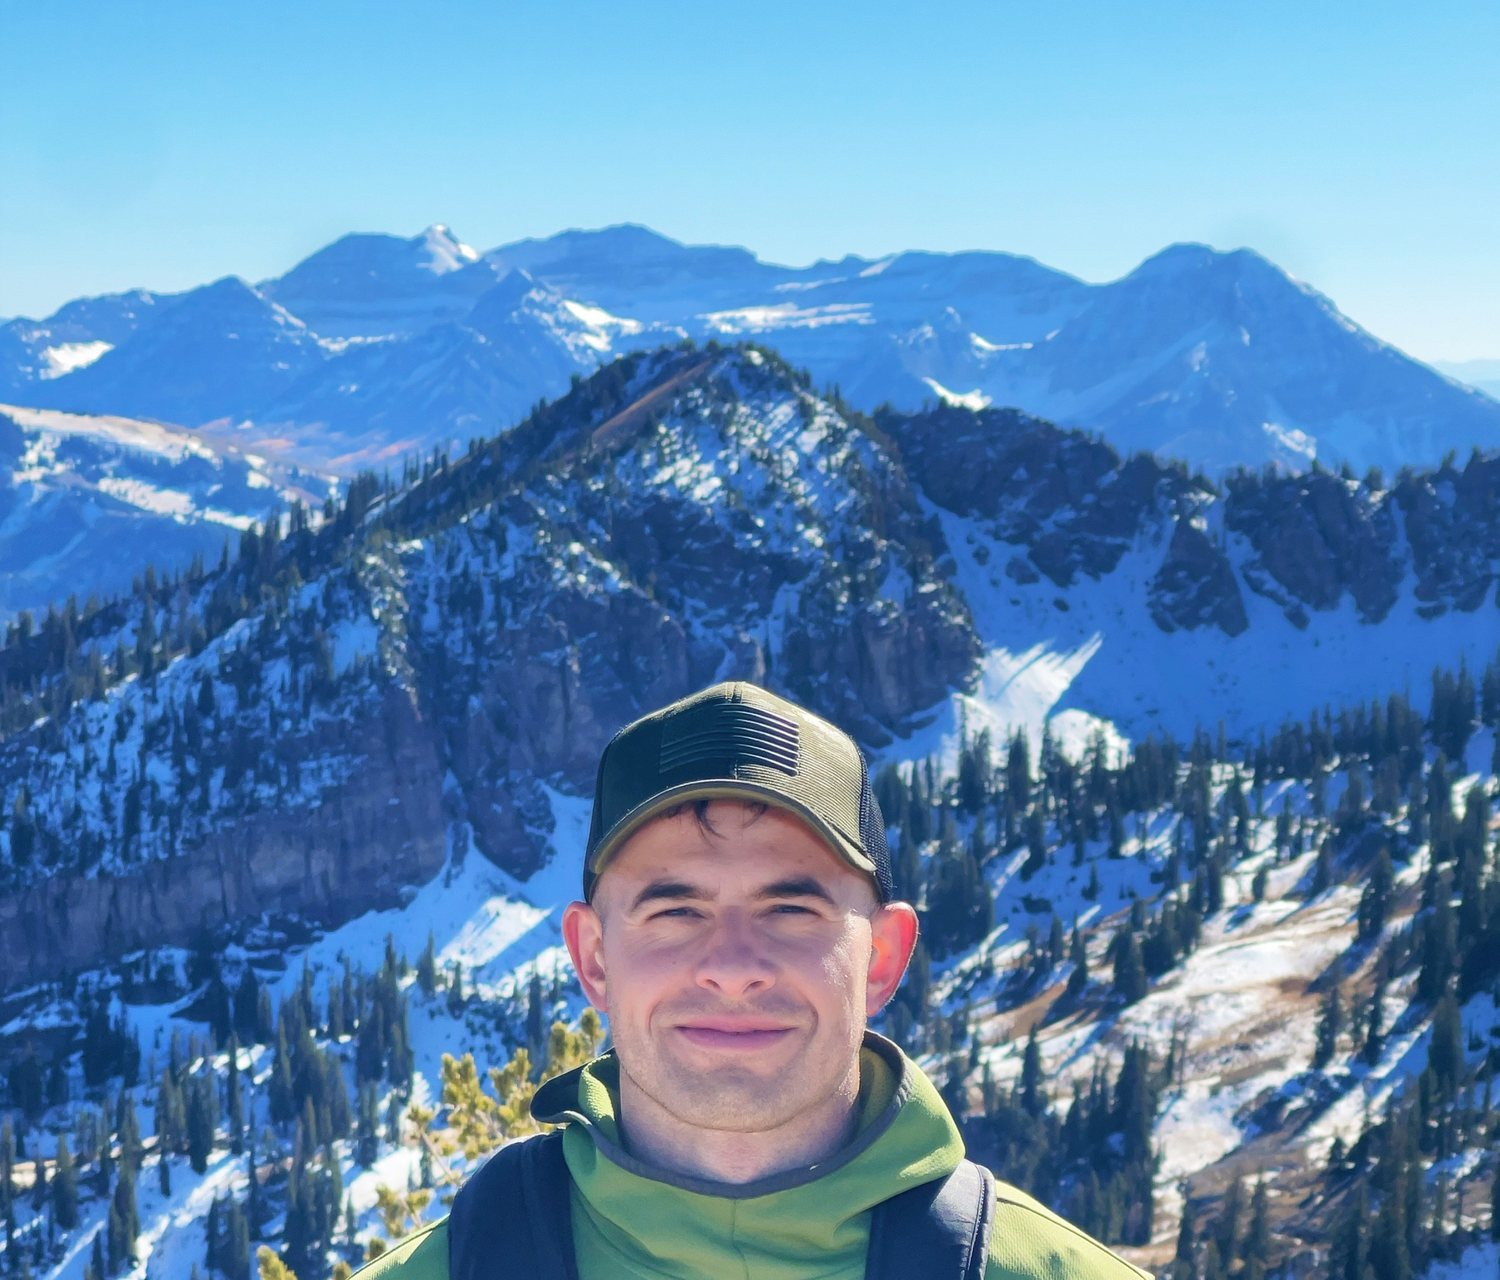
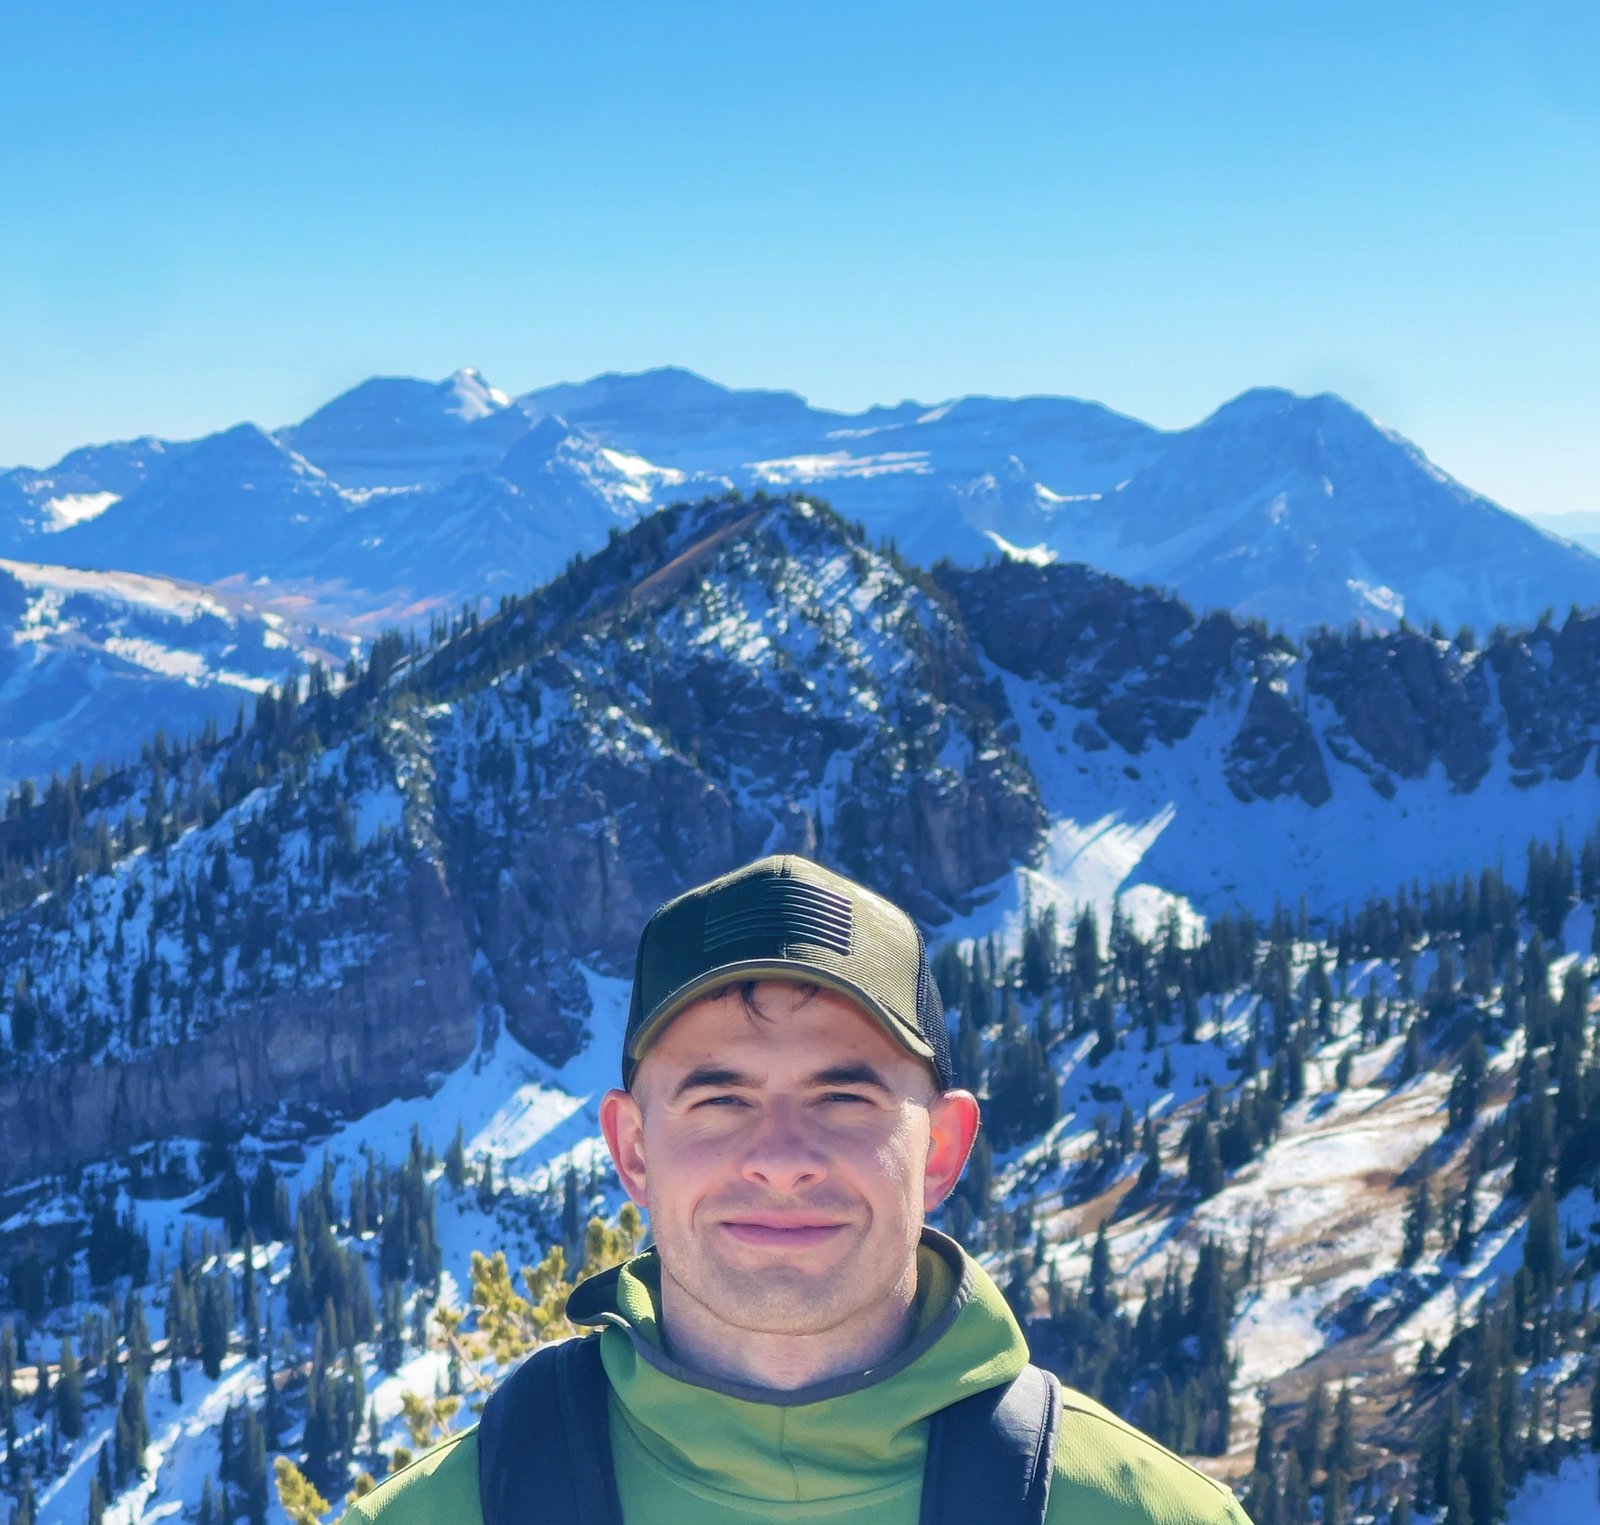
Add files via upload

diff --git a/assets/site.css b/assets/site.css
@@ -214,10 +214,12 @@ hr{border:0;border-top:1px solid var(--rule);margin:0;}
 /* ---------- Credential strip ---------- */
 .strip{border-block:1px solid var(--rule-soft);background:var(--wash);}
 .strip-in{
-  display:flex;flex-wrap:wrap;gap:10px 44px;align-items:baseline;padding-block:18px;
+  display:flex;flex-wrap:wrap;gap:14px 40px;align-items:center;padding-block:20px;
   font-size:.7rem;letter-spacing:.2em;text-transform:uppercase;color:var(--quiet);
 }
 .strip-in b{color:var(--signal);font-weight:500;}
+.strip-logo{height:26px;width:auto;flex:none;opacity:.88;}
+@media(max-width:620px){ .strip-logo{height:22px;} }
 
 /* ---------- Pull quote ---------- */
 .pull{max-width:880px;}
@@ -406,7 +408,7 @@ textarea.inp{resize:vertical;min-height:84px;line-height:1.6;}
 .js .live.off{display:none;}
 
 /* ---------- Closing CTA block ---------- */
-.cta-block{display:grid;grid-template-columns:1.1fr .9fr;gap:clamp(26px,4vw,56px);align-items:center;}
+.cta-block{display:grid;grid-template-columns:1fr 1.08fr;gap:clamp(26px,4vw,56px);align-items:center;}
 .cta-actions{display:flex;flex-wrap:wrap;gap:12px;margin-top:26px;}
 .cta-block figure img{width:100%;height:auto;border-radius:2px;}
 @media(max-width:800px){ .cta-block{grid-template-columns:1fr;} }
@@ -421,7 +423,8 @@ textarea.inp{resize:vertical;min-height:84px;line-height:1.6;}
 .foot-grid{display:grid;grid-template-columns:1.5fr 1fr 1fr;gap:clamp(24px,4vw,48px);padding-bottom:32px;}
 @media(max-width:760px){ .foot-grid{grid-template-columns:1fr 1fr;} }
 @media(max-width:480px){ .foot-grid{grid-template-columns:1fr;} }
-.foot-name{font-family:var(--serif);font-size:1.7rem;color:#fff;margin-bottom:10px;}
+.foot-name{font-family:var(--serif);font-size:1.7rem;color:#fff;margin-bottom:12px;}
+.foot-logo{width:150px;height:auto;display:block;margin:0 0 14px;opacity:.9;}
 .site-foot h3{font-size:.68rem;font-weight:600;letter-spacing:.22em;text-transform:uppercase;
   color:var(--quiet);margin-bottom:15px;}
 .foot-list{list-style:none;margin:0;padding:0;display:grid;gap:10px;}

diff --git a/index.html b/index.html
@@ -300,8 +300,8 @@
 <!-- ============================ CREDENTIAL STRIP ============================ -->
 <div class="strip">
   <div class="wrap strip-in">
-    <span><b>Real Broker, LLC</b></span>
-    <span>The Perry Group</span>
+    <img class="strip-logo" src="images/perry-real-wide.svg" width="1667" height="426"
+         alt="The Perry Group, brokered by Real Broker, LLC">
     <span>Utah license <b>13939777-SA00</b></span>
     <span>Utah County &amp; Salt Lake County</span>
   </div>
@@ -533,7 +533,7 @@
       </div>
     </div>
     <figure style="margin:0">
-      <img src="images/portrait-casual.jpg" width="1500" height="1280" style="border-radius:3px"
+      <img src="images/portrait-casual.jpg" width="1600" height="1525" style="border-radius:3px"
            alt="Emanuel Balmus outdoors in the Wasatch mountains">
     </figure>
   </div>
@@ -547,11 +547,9 @@
     <div class="foot-grid">
       <div>
         <div class="foot-name">Emanuel Balmus</div>
-        <p style="margin:0;line-height:1.8">
-          Real Broker, LLC<br>
-          The Perry Group<br>
-          Utah license 13939777-SA00
-        </p>
+        <img class="foot-logo" src="images/perry-real-stacked.svg" width="794" height="426"
+             alt="The Perry Group, brokered by Real Broker, LLC">
+        <p style="margin:0;line-height:1.8">Utah license 13939777-SA00</p>
       </div>
       <div>
         <h3>Contact</h3>

diff --git a/story.html b/story.html
@@ -175,7 +175,7 @@
       </div>
     </div>
     <figure style="margin:0">
-      <img src="images/portrait-casual.jpg" width="1500" height="1280" style="border-radius:3px"
+      <img src="images/portrait-casual.jpg" width="1600" height="1525" style="border-radius:3px"
            alt="Emanuel Balmus outdoors in the Wasatch mountains">
     </figure>
   </div>
@@ -188,9 +188,9 @@
     <div class="foot-grid">
       <div>
         <div class="foot-name">Emanuel Balmus</div>
-        <p style="margin:0;line-height:1.8">
-          Real Broker, LLC<br>The Perry Group<br>Utah license 13939777-SA00
-        </p>
+        <img class="foot-logo" src="images/perry-real-stacked.svg" width="794" height="426"
+             alt="The Perry Group, brokered by Real Broker, LLC">
+        <p style="margin:0;line-height:1.8">Utah license 13939777-SA00</p>
       </div>
       <div>
         <h3>Contact</h3>

diff --git a/buyers.html b/buyers.html
@@ -264,9 +264,9 @@
     <div class="foot-grid">
       <div>
         <div class="foot-name">Emanuel Balmus</div>
-        <p style="margin:0;line-height:1.8">
-          Real Broker, LLC<br>The Perry Group<br>Utah license 13939777-SA00
-        </p>
+        <img class="foot-logo" src="images/perry-real-stacked.svg" width="794" height="426"
+             alt="The Perry Group, brokered by Real Broker, LLC">
+        <p style="margin:0;line-height:1.8">Utah license 13939777-SA00</p>
       </div>
       <div>
         <h3>Contact</h3>

diff --git a/contact.html b/contact.html
@@ -280,9 +280,9 @@
     <div class="foot-grid">
       <div>
         <div class="foot-name">Emanuel Balmus</div>
-        <p style="margin:0;line-height:1.8">
-          Real Broker, LLC<br>The Perry Group<br>Utah license 13939777-SA00
-        </p>
+        <img class="foot-logo" src="images/perry-real-stacked.svg" width="794" height="426"
+             alt="The Perry Group, brokered by Real Broker, LLC">
+        <p style="margin:0;line-height:1.8">Utah license 13939777-SA00</p>
       </div>
       <div>
         <h3>Contact</h3>

diff --git a/sellers.html b/sellers.html
@@ -216,9 +216,9 @@
     <div class="foot-grid">
       <div>
         <div class="foot-name">Emanuel Balmus</div>
-        <p style="margin:0;line-height:1.8">
-          Real Broker, LLC<br>The Perry Group<br>Utah license 13939777-SA00
-        </p>
+        <img class="foot-logo" src="images/perry-real-stacked.svg" width="794" height="426"
+             alt="The Perry Group, brokered by Real Broker, LLC">
+        <p style="margin:0;line-height:1.8">Utah license 13939777-SA00</p>
       </div>
       <div>
         <h3>Contact</h3>

diff --git a/tools.html b/tools.html
@@ -385,9 +385,9 @@
     <div class="foot-grid">
       <div>
         <div class="foot-name">Emanuel Balmus</div>
-        <p style="margin:0;line-height:1.8">
-          Real Broker, LLC<br>The Perry Group<br>Utah license 13939777-SA00
-        </p>
+        <img class="foot-logo" src="images/perry-real-stacked.svg" width="794" height="426"
+             alt="The Perry Group, brokered by Real Broker, LLC">
+        <p style="margin:0;line-height:1.8">Utah license 13939777-SA00</p>
       </div>
       <div>
         <h3>Contact</h3>
